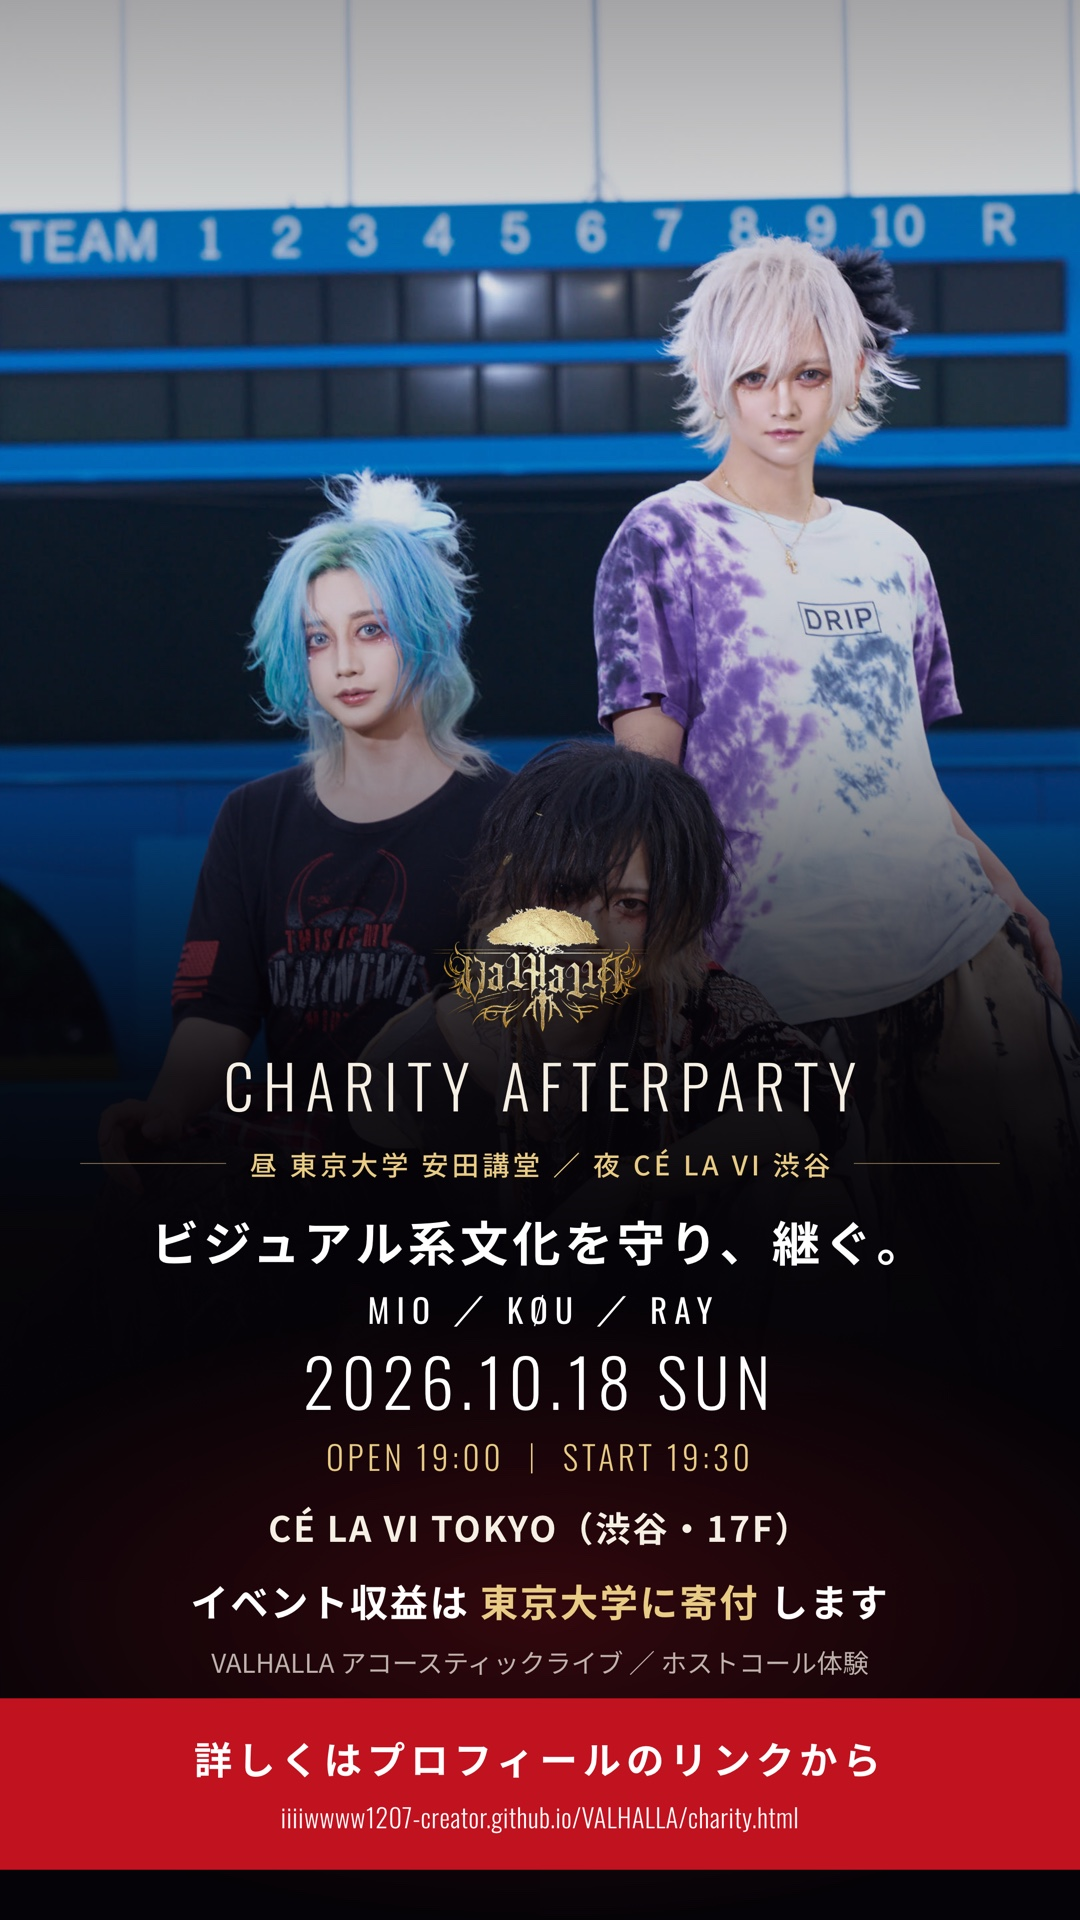
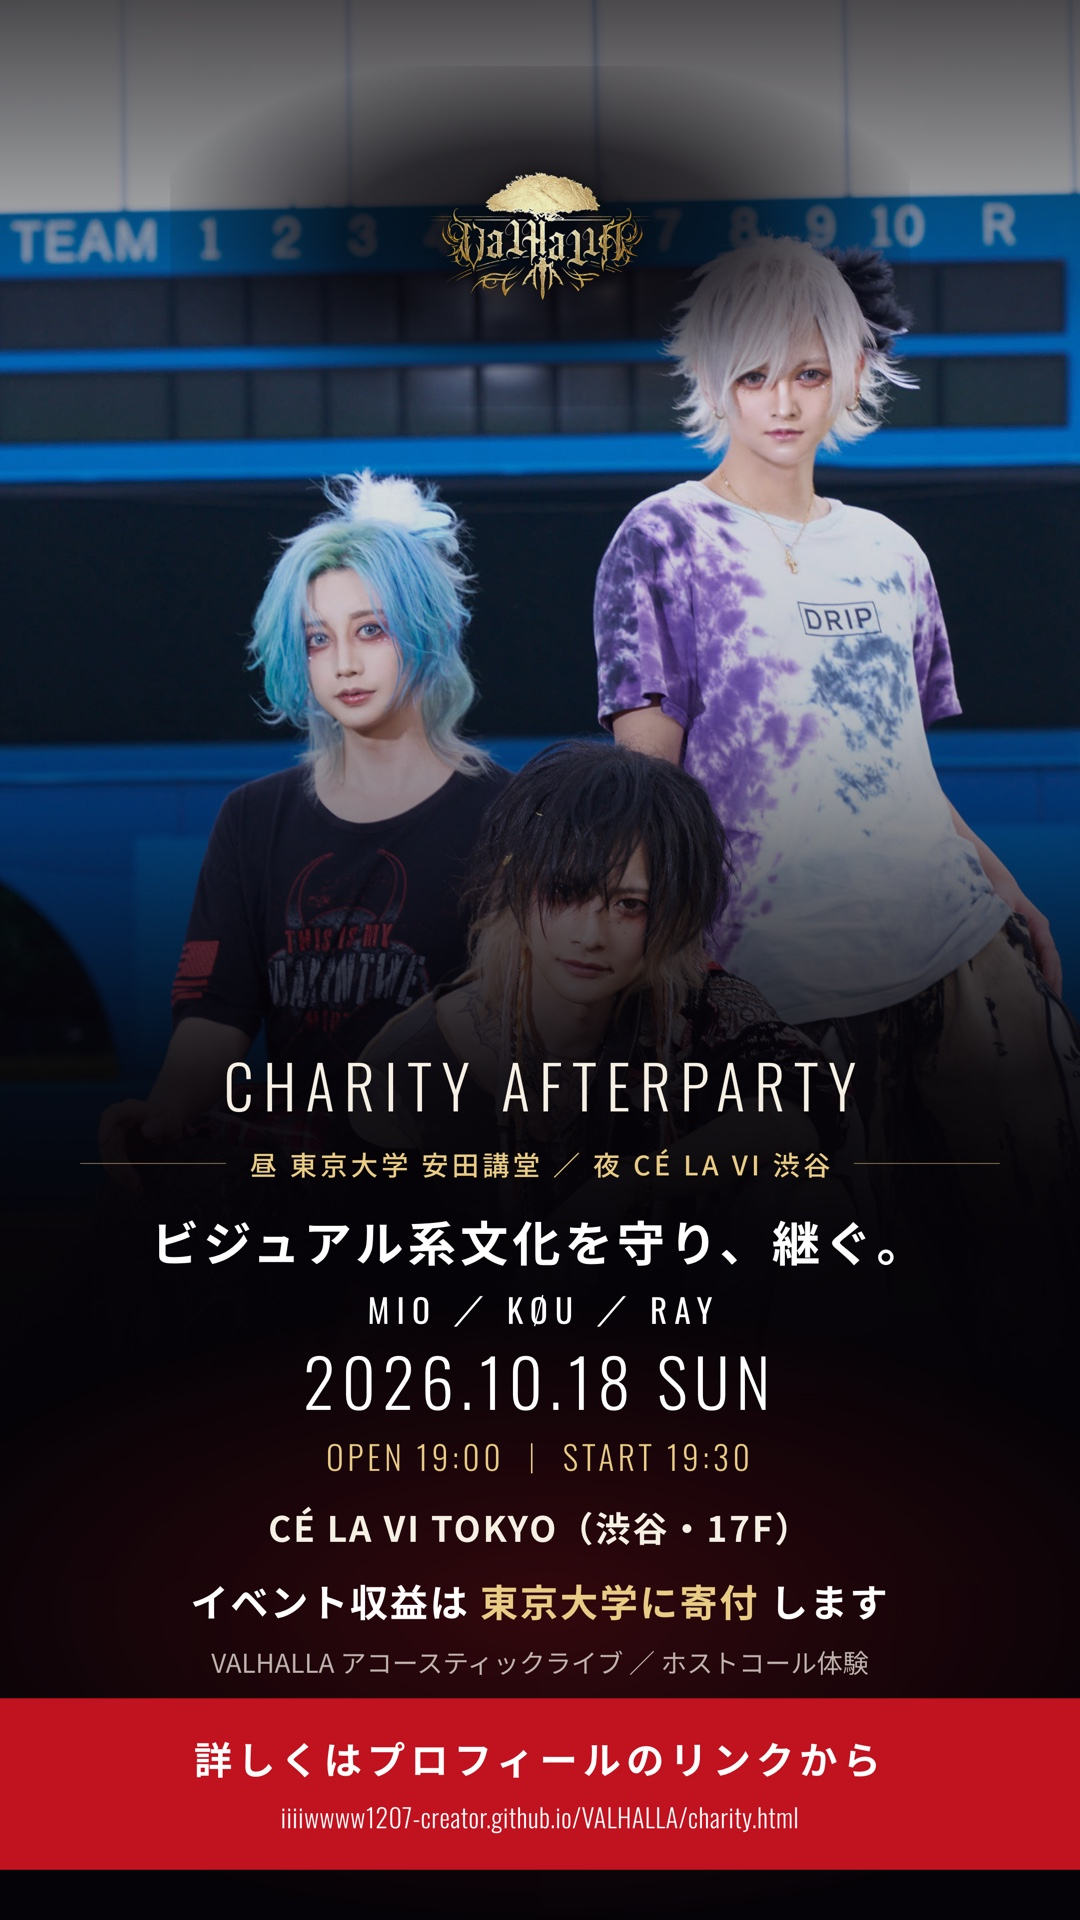
SNS1枚目：ロゴが人物に被るので紙面上部へ移動
kazuma 指摘。文字組みの先頭にあったVALHALLAロゴが中央のKØUの
顔に重なっていたため、写真の上部（空・スコアボード）へ逃がした。

- .head 内のロゴを非表示にし、.topmark として絶対配置
- スコアボードの数字とロゴが混ざるので、ロゴ背後だけ楕円グラデで落とす
- 上端の暗幕も強めて金のロゴが明るい空に沈まないようにした
- サイズ別のロゴ位置: feed45 top40/幅186 / square top34/幅160 / story top170/幅224
  （story はストーリーUIのセーフエリア内に収めている）

3サイズとも MIO / KØU / RAY の顔が文字・ロゴに隠れないことを描画して確認済み。

Changed region(s): [[0.0, 0.0, 1.0, 0.2188], [0.3972, 0.4688, 0.5806, 0.5312]]

diff --git a/flyer-sns.html b/flyer-sns.html
@@ -59,7 +59,7 @@
   .board.story  .bg{background-size:150% auto;background-position:center 100%}
   .board.feed45 .veil,.board.square .veil,.board.story .veil{
       background:linear-gradient(180deg,
-        rgba(5,3,7,.36) 0%, rgba(5,3,7,.06) 18%, rgba(5,3,7,.22) 36%,
+        rgba(5,3,7,.72) 0%, rgba(5,3,7,.44) 9%, rgba(5,3,7,.08) 20%, rgba(5,3,7,.22) 36%,
         rgba(5,3,7,.66) 48%, rgba(5,3,7,.92) 56%, rgba(5,3,7,.985) 64%, #050307 74%)}
   .board.feed45 .glow,.board.square .glow,.board.story .glow{
       background:radial-gradient(ellipse 84% 22% at 50% 84%, rgba(176,20,28,.26), transparent 74%)}
@@ -68,6 +68,15 @@
   .board.feed45 .cta,.board.square .cta,.board.story .cta{margin-top:0}
   .cast-line{font-family:'Oswald',sans-serif;font-weight:400;letter-spacing:.22em;
     text-indent:.22em;color:#fff;line-height:1}
+  /* 1枚目のロゴは文字組みの中ではなく紙面上部に置く（中央だと人物に被るため） */
+  .board.feed45 .head .mark,.board.square .head .mark,.board.story .head .mark{display:none}
+  .topmark{position:absolute;left:0;right:0;z-index:3;text-align:center}
+  .topmark img{position:relative;z-index:2;display:block;margin:0 auto;
+    filter:drop-shadow(0 4px 14px rgba(5,3,7,.95))}
+  .topmark::after{content:"";position:absolute;left:50%;top:50%;z-index:1;
+    transform:translate(-50%,-50%);
+    background:radial-gradient(ellipse at center,
+      rgba(5,3,7,.92) 0%, rgba(5,3,7,.72) 38%, rgba(5,3,7,.28) 62%, transparent 76%)}
 
   /* ── （2枚目では未使用）キャスト3枚並び ── */
   .cast{display:grid;grid-template-columns:repeat(3,1fr);gap:8px;flex:none}
@@ -171,6 +180,9 @@
      サイズ別の寸法
      ========================================================== */
   /* ---- 1080x1350（Instagram フィード・Xタイムラインで最も大きく出る） ---- */
+  .feed45 .topmark{top:40px}
+  .feed45 .topmark img{width:186px}
+  .feed45 .topmark::after{width:620px;height:290px}
   .feed45 .head{padding:0 70px 0}
   .feed45 .head .mark{width:168px;margin-bottom:14px}
   .feed45 .head h1{font-size:47px}
@@ -195,6 +207,9 @@
   .feed45 .cta u{margin-top:10px;font-size:23px}
 
   /* ---- 1080x1080（グリッド・X） ---- */
+  .square .topmark{top:34px}
+  .square .topmark img{width:160px}
+  .square .topmark::after{width:540px;height:250px}
   .square .head{padding:0 70px 0}
   .square .head .mark{width:150px;margin-bottom:12px}
   .square .head h1{font-size:42px}
@@ -265,6 +280,9 @@
   /* ---- 1080x1920（ストーリー／リール）
          上下 240px は端末UIに隠れやすいのでセーフエリアを空ける ---- */
   .story{padding:120px 0 50px}
+  .story .topmark{top:170px}
+  .story .topmark img{width:224px}
+  .story .topmark::after{width:740px;height:340px}
   .story .head{padding:0 80px 0}
   .story .head .mark{width:220px;margin-bottom:20px}
   .story .head h1{font-size:60px}
@@ -294,6 +312,7 @@
 <!-- ============ 1080 x 1350 ／ Instagram フィード・X ============ -->
 <section class="board feed45">
   <div class="bg"></div><div class="veil"></div><div class="glow"></div>
+  <div class="topmark"><img src="assets/charity/logo_gold.webp" alt="VALHALLA"></div>
   <div class="head">
     <img class="mark" src="assets/charity/logo_gold.webp" alt="VALHALLA">
     <h1>Charity Afterparty</h1>
@@ -319,6 +338,7 @@
 <!-- ============ 1080 x 1080 ／ グリッド・X ============ -->
 <section class="board square">
   <div class="bg"></div><div class="veil"></div><div class="glow"></div>
+  <div class="topmark"><img src="assets/charity/logo_gold.webp" alt="VALHALLA"></div>
   <div class="head">
     <img class="mark" src="assets/charity/logo_gold.webp" alt="VALHALLA">
     <h1>Charity Afterparty</h1>
@@ -340,6 +360,7 @@
 <!-- ============ 1080 x 1920 ／ ストーリー・リール ============ -->
 <section class="board story">
   <div class="bg"></div><div class="veil"></div><div class="glow"></div>
+  <div class="topmark"><img src="assets/charity/logo_gold.webp" alt="VALHALLA"></div>
   <div class="head">
     <img class="mark" src="assets/charity/logo_gold.webp" alt="VALHALLA">
     <h1>Charity Afterparty</h1>
